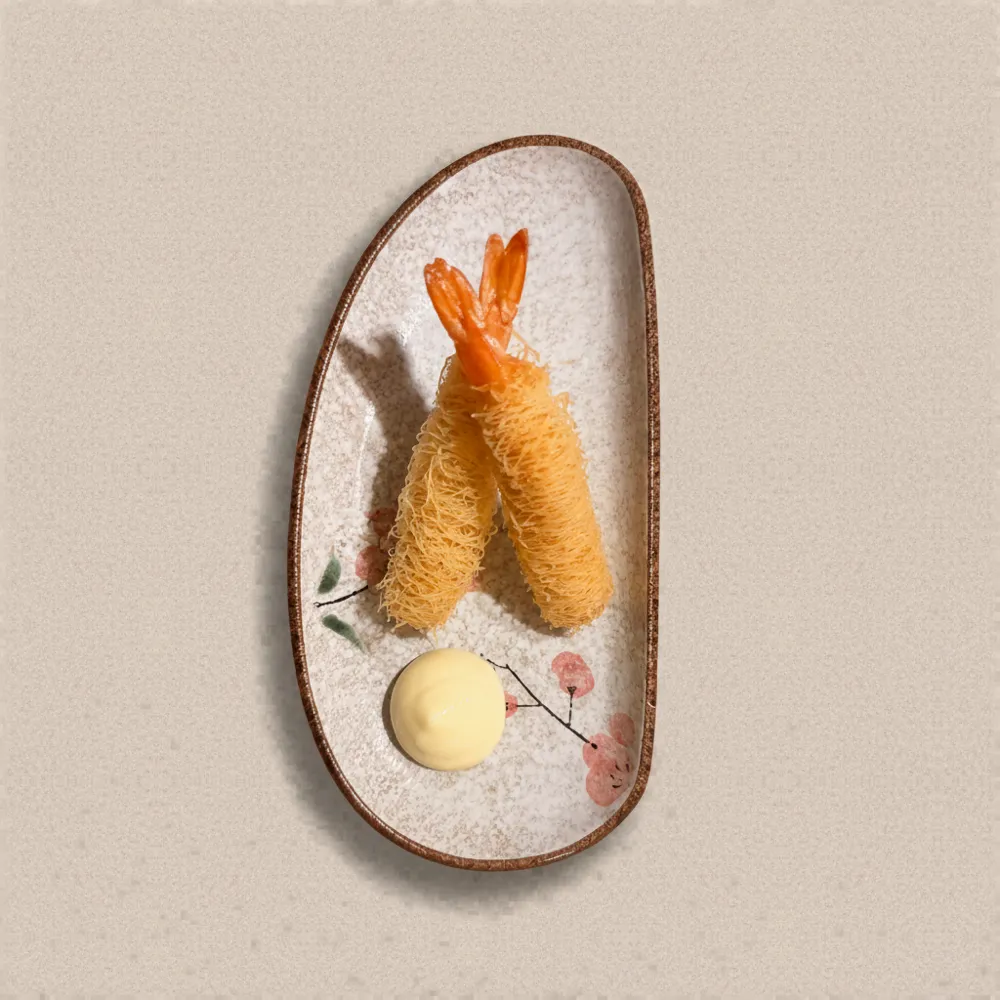
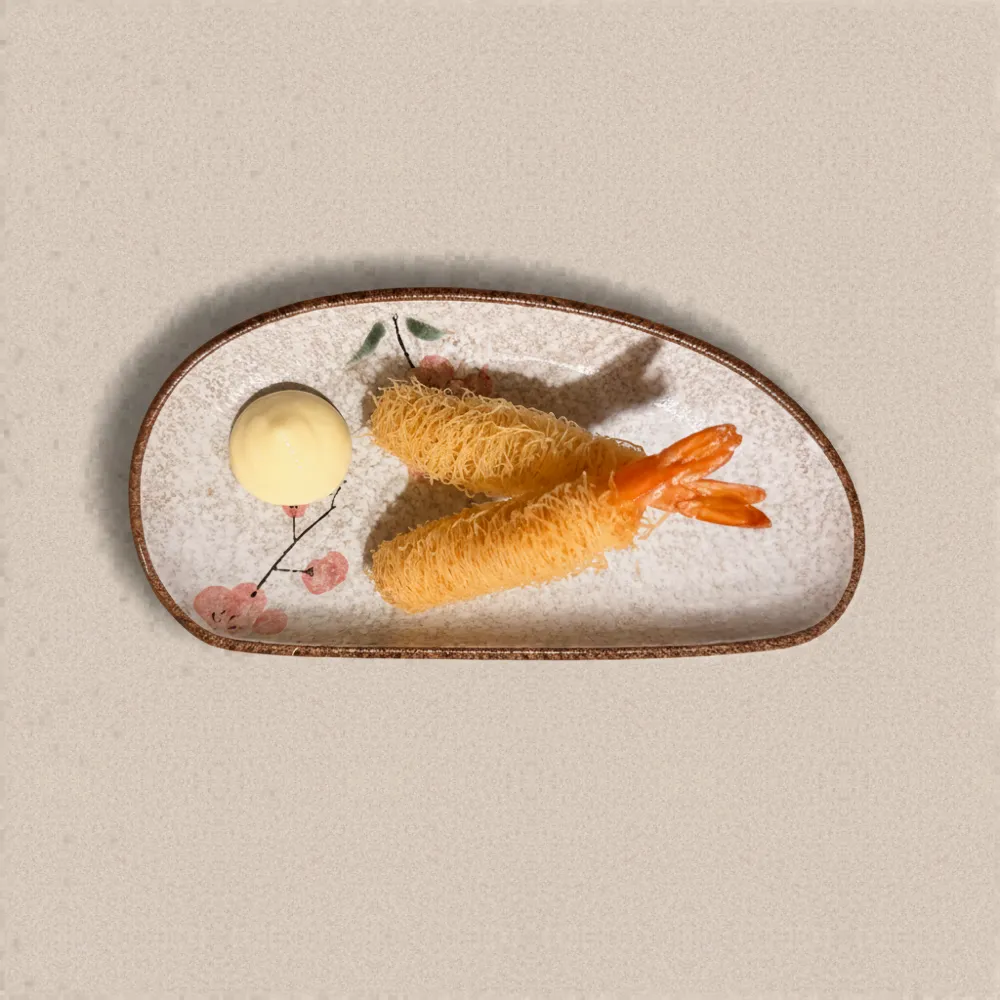
feat: 新增推薦海味小菜區；hero 精簡與評分改動
- 新增「推薦海味小菜」區塊（金線炸蝦/唐揚蟹/炙燒明太子貝柱）
- 金線炸蝦照片轉為橫向，與其他小菜方向一致
- 移除 hero 小字「木柵的海味拉麵所」
- 移除「來電訂位」按鈕（無訂位服務）
- Google 評分改為「在 Google 上看真實評論」，不寫死浮動數字

Changed region(s): [[0.062, 0.124, 0.868, 0.93]]

diff --git a/index.html b/index.html
@@ -46,7 +46,6 @@
 <section class="hero">
   <div class="container hero-inner">
     <img class="hero-logo" src="assets/logo-wide.webp" alt="六宴食堂 ∣ 海味拉麵製作所" width="460" height="68">
-    <p class="hero-kicker">木柵的海味拉麵所</p>
     <h1 class="hero-title">用一碗麵<br>款待你的每一天</h1>
     <p class="hero-sub">嫩魚白湯 · 赤蝦紅湯 · 柚桔海味 · 職人手作小菜<br>木柵在地拉麵，全新品牌登場</p>
     <div class="hero-actions">
@@ -55,7 +54,7 @@
     </div>
     <a class="hero-rating" href="https://www.google.com/maps/search/?api=1&query=%E5%85%AD%E5%AE%B4%E9%A3%9F%E5%A0%82%20%E6%B5%B7%E5%91%B3%E6%8B%89%E9%BA%B5%E8%A3%BD%E4%BD%9C%E6%89%80" target="_blank" rel="noopener">
       <span class="stars">★★★★★</span>
-      <span>Google 4.9 · 47 則評論</span>
+      <span>在 Google 上看真實評論</span>
     </a>
   </div>
   <div class="wave-divider" aria-hidden="true"></div>
@@ -98,6 +97,35 @@
         <h3>柚桔・海味拉麵</h3>
         <p>柚桔與海味的清新邂逅，明亮動人。嚴選蛤蜊、鮮蝦與嫩魚入湯，輔以柚桔微酸，勾勒食材原始的鮮甜。</p>
         <span class="price">NT$235</span>
+      </article>
+    </div>
+  </div>
+</section>
+
+<!-- ===== 推薦海味小菜 ===== -->
+<section class="section recommend" id="recommend">
+  <div class="container">
+    <p class="eyebrow">Recommended</p>
+    <h2 class="section-title">推薦海味小菜</h2>
+    <p class="section-lead">拉麵之外，這三道海味炸物最受歡迎——配麵、小酌都對味。</p>
+    <div class="sig-grid">
+      <article class="sig-card">
+        <div class="sig-img"><img src="assets/dishes/tempura.webp" alt="金線炸蝦" loading="lazy" width="500" height="500"></div>
+        <h3>金線炸蝦</h3>
+        <p>髮絲酥皮裹著飽滿鮮蝦，咬下卡滋作響，金黃酥脆與蝦肉甘甜同時綻放。</p>
+        <span class="price">2隻 NT$110・1隻 NT$65</span>
+      </article>
+      <article class="sig-card">
+        <div class="sig-img"><img src="assets/dishes/crab.webp" alt="唐揚蟹" loading="lazy" width="500" height="500"></div>
+        <h3>唐揚蟹</h3>
+        <p>整隻軟殼蟹下鍋酥炸，連殼都能享受的香脆滋味，海味濃郁，是小酌時的最佳良伴。</p>
+        <span class="price">NT$99</span>
+      </article>
+      <article class="sig-card">
+        <div class="sig-img"><img src="assets/dishes/mentaiko.webp" alt="炙燒明太子貝柱" loading="lazy" width="500" height="500"></div>
+        <h3>炙燒明太子貝柱</h3>
+        <p>生食級貝柱鋪上明太子，炙燒後香氣四溢，與貝柱的甘甜碰撞交融，極簡卻奢華。</p>
+        <span class="price">NT$80</span>
       </article>
     </div>
   </div>
@@ -201,7 +229,6 @@
 
     <div class="menu-cta">
       <a class="btn btn-primary" href="https://www.ubereats.com/tw/store/%E5%85%AD%E5%AE%B4%E9%A3%9F%E5%A0%82-%E6%B5%B7%E5%91%B3%E6%8B%89%E9%BA%B5%E8%A3%BD%E4%BD%9C%E6%89%80/pMH7pNJ3V2247jP5R0xN7w" target="_blank" rel="noopener">Uber Eats 線上點餐</a>
-      <a class="btn btn-ghost" href="tel:+886229375306">來電訂位 02-2937-5306</a>
     </div>
   </div>
 </section>

diff --git a/style.css b/style.css
@@ -74,7 +74,7 @@ a{color:inherit;text-decoration:none}
 .hero-inner>*{max-width:100%}
 .hero-logo{width:min(460px,84%);height:auto}
 .hero-kicker{margin-top:26px;font-weight:700;letter-spacing:.35em;color:var(--orange);font-size:1rem}
-.hero-title{font-size:clamp(2.3rem,6vw,3.6rem);font-weight:900;line-height:1.25;margin-top:10px;letter-spacing:.04em}
+.hero-title{font-size:clamp(2.3rem,6vw,3.6rem);font-weight:900;line-height:1.25;margin-top:30px;letter-spacing:.04em}
 .hero-sub{margin-top:18px;color:var(--brown-soft);font-size:1.05rem;text-wrap:balance}
 .hero-actions{display:flex;gap:14px;flex-wrap:wrap;justify-content:center;margin-top:30px}
 .hero-rating{
@@ -118,6 +118,9 @@ a{color:inherit;text-decoration:none}
 .sig-card h3{margin-top:18px;font-size:1.3rem;font-weight:900}
 .sig-card p{margin-top:10px;color:var(--brown-soft);font-size:.96rem;min-height:4.5em}
 .price{display:inline-block;margin-top:14px;font-weight:900;color:var(--orange);font-size:1.2rem}
+
+/* ===== 推薦海味小菜 ===== */
+.recommend{background:var(--paper)}
 
 /* ===== 完整菜單 ===== */
 .menu{background:var(--cream-bg)}
